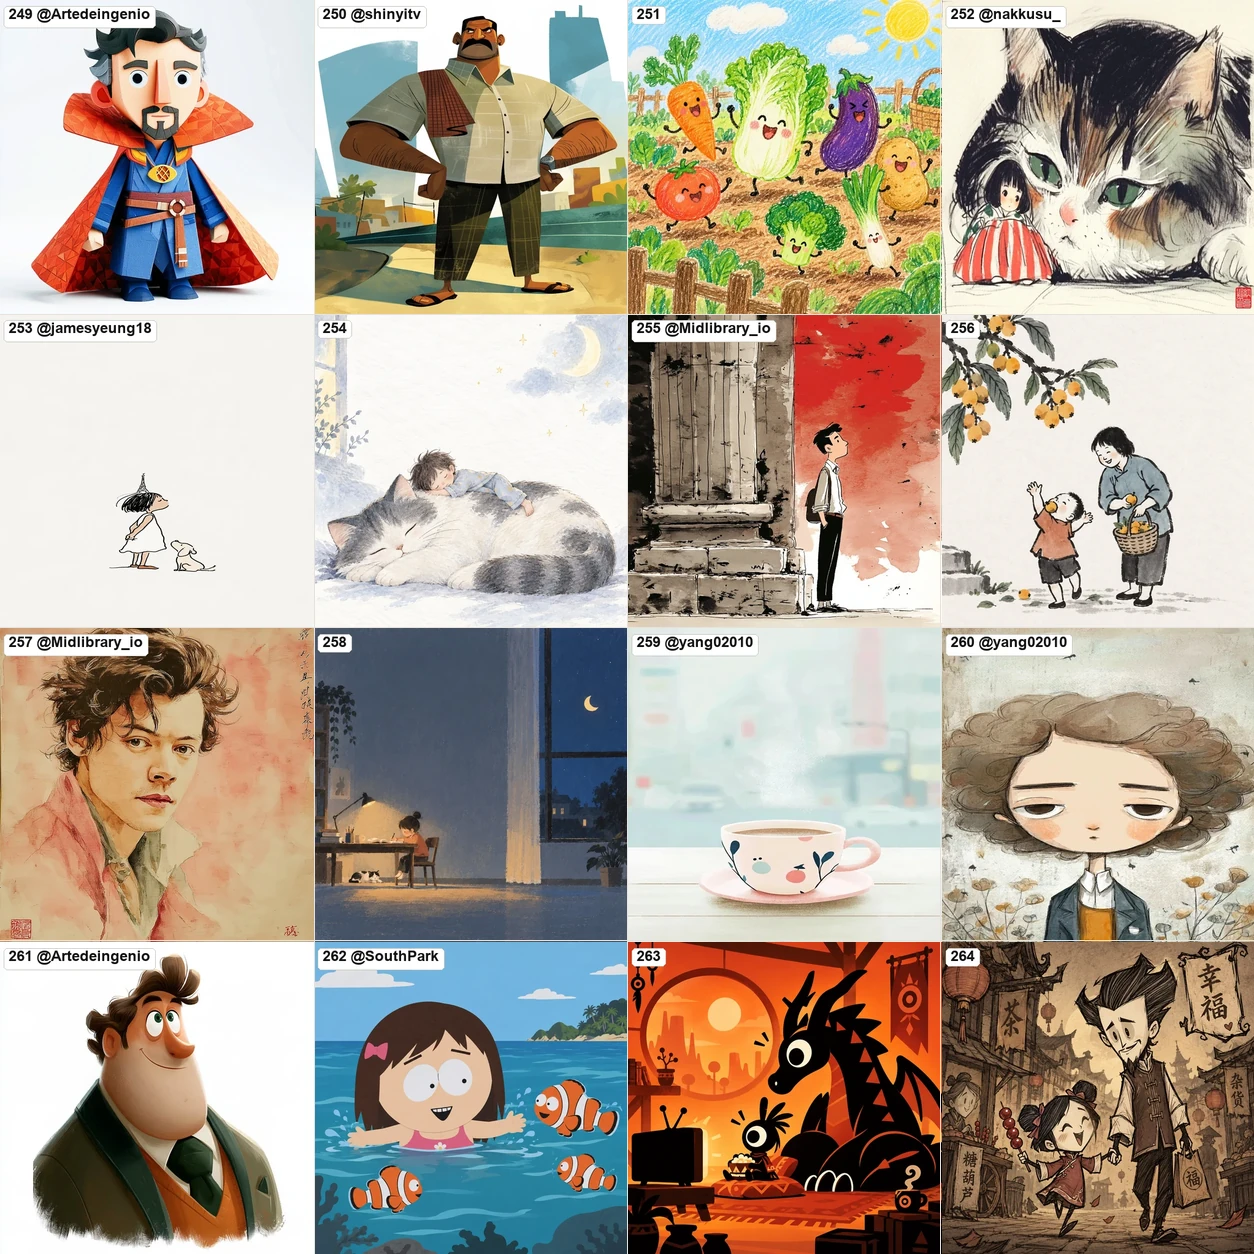
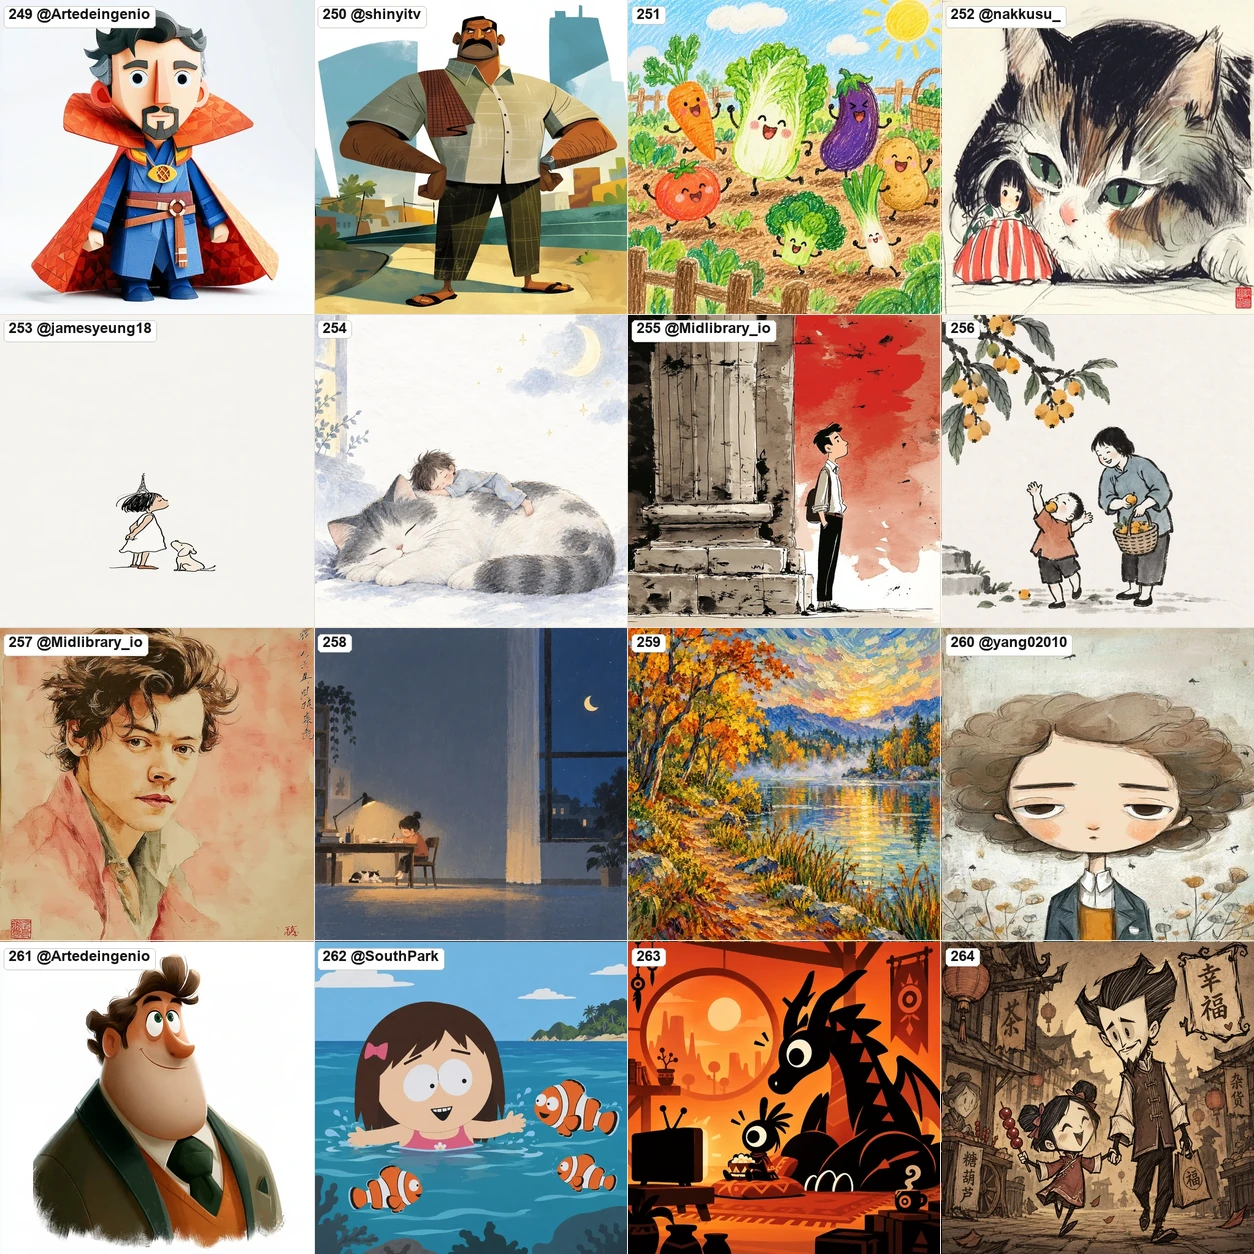
feat(styles): replace #259 with Van Gogh Impasto style and bump version (v1.2.18)

Changed region(s): [[0.4976, 0.4976, 0.7775, 0.7775]]

diff --git a/skills/handdraw-style-prompter/gallery/index.html b/skills/handdraw-style-prompter/gallery/index.html
@@ -2,7 +2,7 @@
 <html lang="zh-CN"><head><meta charset="utf-8"><meta name="viewport" content="width=device-width, initial-scale=1">
 <title>手绘风格编号画廊</title><style>
 body{margin:0;background:#f7f5f0;color:#24211e;font:16px/1.5 system-ui,"Microsoft YaHei",sans-serif} main{max-width:1440px;margin:auto;padding:18px 30px 30px} h1{margin:0} .lead{color:#665f57} input{width:min(520px,100%);box-sizing:border-box;padding:12px;border:1px solid #bdb5aa;border-radius:10px;font-size:16px} .update-status{display:flex;align-items:center;gap:8px;flex-wrap:wrap;margin:14px 0 18px;padding:9px 12px;border-left:3px solid #8b8177;background:#ece8e2;color:#514a43;font-size:14px} .update-status strong{color:#24211e} .update-status.is-update{border-color:#b74227;background:#fff0eb;color:#7f3022} .update-status.is-local-newer{border-color:#39726a;background:#eaf5f1;color:#25534d} .update-status button{border:1px solid currentColor;border-radius:6px;background:transparent;color:inherit;padding:4px 8px;font:inherit;cursor:pointer} .update-status button:hover{background:#ffffff80} .sheets{display:grid;grid-template-columns:repeat(auto-fit,minmax(290px,1fr));gap:18px;margin:24px 0 36px} figure{position:relative;margin:0;background:#fff;padding:10px;border-radius:12px;box-shadow:0 1px 5px #0002} .sheet-badge{position:absolute;top:16px;left:16px;background:rgba(36,33,30,0.85);color:#fff;padding:3px 8px;border-radius:6px;font-size:12px;font-weight:700;letter-spacing:0.5px;pointer-events:none;z-index:2;box-shadow:0 1px 3px rgba(0,0,0,0.3)} .sheet{display:block;width:100%;padding:0;border:0;background:transparent;cursor:zoom-in} .sheet:focus-visible{outline:3px solid #d67d4d;outline-offset:4px;border-radius:8px} img{display:block;width:100%;border-radius:7px} figcaption{padding:8px 2px 0;font-weight:700} .styles{display:grid;grid-template-columns:repeat(auto-fill,minmax(310px,1fr));gap:10px} .style{background:#fff;border-radius:10px;padding:12px;border-left:4px solid #d67d4d} .style b{font-variant-numeric:tabular-nums} .style small{display:block;color:#71685e;margin-top:2px} .style p{margin:7px 0 0;font-size:14px;color:#4b4540} dialog{width:min(94vw,1300px);max-width:none;padding:12px;border:0;border-radius:14px;background:#171513;color:#fff;box-shadow:0 20px 70px #0008} dialog::backdrop{background:#000b} dialog img{max-height:82vh;object-fit:contain} .close{float:right;border:0;border-radius:7px;padding:7px 10px;background:#fff;color:#24211e;cursor:pointer;font:inherit} .dialog-label{margin:8px 0 0;clear:both} .dialog-tip{margin:6px 0 0;font-size:12px;color:#a8a199;text-align:center} [hidden]{display:none!important}</style></head>
-<body><style>.site-nav{position:sticky;top:0;z-index:100;display:flex;align-items:center;gap:10px;margin:0;padding:12px 30px;border-bottom:1px solid #ded8cf;background:#fffdf9} .site-nav a{border:1px solid #9e9185;border-radius:8px;background:#fff;color:#403a34;padding:7px 13px;text-decoration:none;font-weight:800;line-height:1.2;transition:background .15s,color .15s,border-color .15s} .site-nav a:hover{border-color:#b74227;background:#fff0eb;color:#9f351f} .site-nav a[aria-current="page"]{border-color:#b74227;background:#b74227;color:#fff;box-shadow:0 1px 3px #b7422744} .nav-right{margin-left:auto;display:flex;align-items:center;gap:8px} .nav-ext{display:inline-flex;align-items:center;font-weight:700} .nav-btn{border:1px solid #9e9185;border-radius:8px;background:#fff;color:#403a34;padding:7px 13px;font:inherit;font-weight:700;line-height:1.2;cursor:pointer;transition:background .15s,color .15s,border-color .15s} .nav-btn:hover{border-color:#b74227;background:#fff0eb;color:#9f351f} .nav-btn:focus-visible,.site-nav a:focus-visible{outline:3px solid #d67d4d;outline-offset:3px} .prompt-examples{display:flex;align-items:center;flex-wrap:wrap;gap:10px 18px;margin:16px 0 20px} .prompt-examples h2{margin:0;color:#665f57;font-size:14px;font-weight:600} .prompt-example{display:flex;align-items:center;gap:8px;min-width:0} .prompt-label{color:#71685e;font-size:13px;white-space:nowrap} .prompt-value{padding:5px 8px;border:1px solid #d9d2c8;border-radius:6px;background:#fffdf9;color:#24211e;font:13px/1.4 ui-monospace,SFMono-Regular,Consolas,"Liberation Mono",monospace;white-space:nowrap} .prompt-notice{width:100%;box-sizing:border-box;margin:2px 0 0;padding:9px 13px;border:1px solid #ded8cf;border-left:4px solid #d67d4d;border-radius:8px;background:#fff;color:#514a43;font-size:13.5px;line-height:1.6} .prompt-notice a,.prompt-notice button{color:#b74227;font-weight:700;text-decoration:underline;text-underline-offset:2px;background:transparent;border:0;padding:0;font:inherit;cursor:pointer;display:inline} .prompt-notice a:hover,.prompt-notice button:hover{color:#9f351f} @media(max-width:760px){.site-nav{padding:10px 20px;flex-wrap:wrap;gap:8px} .nav-right{width:100%;justify-content:flex-start;gap:6px;margin-left:0} .site-nav a,.nav-btn{padding:6px 10px;font-size:13px} .prompt-examples{align-items:flex-start;flex-direction:column;gap:8px} .prompt-example{flex-wrap:wrap} .prompt-value{white-space:normal}}</style><nav class="site-nav" aria-label="画廊导航"><a href="index.html" aria-current="page" data-i18n="stylesNav">风格画廊</a><a href="layouts.html" data-i18n="layoutsNav">图型画廊</a><a href="colors.html" data-i18n="colorsNav">色彩画廊</a><a href="tutorials.html" data-i18n="tutorialsNav">实操教程</a><div class="nav-right"><a class="nav-ext" href="https://github.com/yang0/handraw-style" target="_blank" rel="noopener noreferrer" title="GitHub 仓库"><svg width="14" height="14" viewBox="0 0 16 16" fill="currentColor" style="vertical-align:-2px;margin-right:4px" aria-hidden="true"><path d="M8 0C3.58 0 0 3.58 0 8c0 3.54 2.29 6.53 5.47 7.59.4.07.55-.17.55-.38 0-.19-.01-.82-.01-1.49-2.01.37-2.53-.49-2.69-.94-.09-.23-.48-.94-.82-1.13-.28-.15-.68-.52-.01-.53.63-.01 1.08.58 1.23.82.72 1.21 1.87.87 2.33.66.07-.52.28-.87.51-1.07-1.78-.2-3.64-.89-3.64-3.95 0-.87.31-1.59.82-2.15-.08-.2-.36-1.02.08-2.12 0 0 .67-.21 2.2.82.64-.18 1.32-.27 2-.27.68 0 1.36.09 2 .27 1.53-1.04 2.2-.82 2.2-.82.44 1.1.16 1.92.08 2.12.51.56.82 1.27.82 2.15 0 3.07-1.87 3.75-3.65 3.95.29.25.54.73.54 1.48 0 1.07-.01 1.93-.01 2.2 0 .21.15.46.55.38A8.013 8.013 0 0016 8c0-4.42-3.58-8-8-8z"/></svg>GitHub</a><a class="nav-ext" href="https://x.com/yang02010" target="_blank" rel="noopener noreferrer" title="X (Twitter) @yang02010"><svg width="13" height="13" viewBox="0 0 24 24" fill="currentColor" style="vertical-align:-2px;margin-right:4px" aria-hidden="true"><path d="M18.244 2.25h3.308l-7.227 8.26 8.502 11.24H16.17l-5.214-6.817L4.99 21.75H1.68l7.73-8.835L1.254 2.25H8.08l4.713 6.231zm-1.161 17.52h1.833L7.084 4.126H5.117z"/></svg>X (@yang02010)</a><button class="nav-btn" id="wechat-btn" type="button" data-i18n="wechatBtn">💬 创作变现交流群</button><button class="nav-btn" id="lang-btn" type="button" aria-label="Switch Language">🌐 EN / 中</button></div></nav><main data-local-version="1.2.17" data-remote-version-url="https://raw.githubusercontent.com/yang0/handraw-style/master/skills/handdraw-style-prompter/references/version.json"><h1 data-i18n="title">手绘风格编号画廊</h1><section class="prompt-examples" aria-labelledby="prompt-examples-title"><h2 id="prompt-examples-title" data-i18n="promptTitle">提示词案例</h2><div class="prompt-example"><span class="prompt-label" data-i18n="ex1Label">1 · 出图</span><code class="prompt-value" data-i18n="ex1Code">风格：001，主题：吃冰淇淋的小姑娘</code></div><div class="prompt-example"><span class="prompt-label" data-i18n="ex2Label">2 · 切换图文模式</span><code class="prompt-value" data-i18n="ex2Code">切换为图文模式</code></div><div class="prompt-example"><span class="prompt-label" data-i18n="ex3Label">3 · 海报提示词</span><code class="prompt-value" data-i18n="ex3Code">请帮我出海报提示词， 主题：秋分</code></div><div class="prompt-notice" data-i18n-html="promptNotice">💡 强烈推荐大家关注我的<a href="https://x.com/yang02010" target="_blank" rel="noopener noreferrer">x账号</a>，或者<button type="button" class="open-wechat-modal">加入交流群</button>获取skill更新的最新信息。因为这不是一个发布就完事的skill，这段时间几乎每天都会有新的风格或者功能发布。</div></section><section id="update-status" class="update-status" role="status" aria-live="polite" hidden></section>
+<body><style>.site-nav{position:sticky;top:0;z-index:100;display:flex;align-items:center;gap:10px;margin:0;padding:12px 30px;border-bottom:1px solid #ded8cf;background:#fffdf9} .site-nav a{border:1px solid #9e9185;border-radius:8px;background:#fff;color:#403a34;padding:7px 13px;text-decoration:none;font-weight:800;line-height:1.2;transition:background .15s,color .15s,border-color .15s} .site-nav a:hover{border-color:#b74227;background:#fff0eb;color:#9f351f} .site-nav a[aria-current="page"]{border-color:#b74227;background:#b74227;color:#fff;box-shadow:0 1px 3px #b7422744} .nav-right{margin-left:auto;display:flex;align-items:center;gap:8px} .nav-ext{display:inline-flex;align-items:center;font-weight:700} .nav-btn{border:1px solid #9e9185;border-radius:8px;background:#fff;color:#403a34;padding:7px 13px;font:inherit;font-weight:700;line-height:1.2;cursor:pointer;transition:background .15s,color .15s,border-color .15s} .nav-btn:hover{border-color:#b74227;background:#fff0eb;color:#9f351f} .nav-btn:focus-visible,.site-nav a:focus-visible{outline:3px solid #d67d4d;outline-offset:3px} .prompt-examples{display:flex;align-items:center;flex-wrap:wrap;gap:10px 18px;margin:16px 0 20px} .prompt-examples h2{margin:0;color:#665f57;font-size:14px;font-weight:600} .prompt-example{display:flex;align-items:center;gap:8px;min-width:0} .prompt-label{color:#71685e;font-size:13px;white-space:nowrap} .prompt-value{padding:5px 8px;border:1px solid #d9d2c8;border-radius:6px;background:#fffdf9;color:#24211e;font:13px/1.4 ui-monospace,SFMono-Regular,Consolas,"Liberation Mono",monospace;white-space:nowrap} .prompt-notice{width:100%;box-sizing:border-box;margin:2px 0 0;padding:9px 13px;border:1px solid #ded8cf;border-left:4px solid #d67d4d;border-radius:8px;background:#fff;color:#514a43;font-size:13.5px;line-height:1.6} .prompt-notice a,.prompt-notice button{color:#b74227;font-weight:700;text-decoration:underline;text-underline-offset:2px;background:transparent;border:0;padding:0;font:inherit;cursor:pointer;display:inline} .prompt-notice a:hover,.prompt-notice button:hover{color:#9f351f} @media(max-width:760px){.site-nav{padding:10px 20px;flex-wrap:wrap;gap:8px} .nav-right{width:100%;justify-content:flex-start;gap:6px;margin-left:0} .site-nav a,.nav-btn{padding:6px 10px;font-size:13px} .prompt-examples{align-items:flex-start;flex-direction:column;gap:8px} .prompt-example{flex-wrap:wrap} .prompt-value{white-space:normal}}</style><nav class="site-nav" aria-label="画廊导航"><a href="index.html" aria-current="page" data-i18n="stylesNav">风格画廊</a><a href="layouts.html" data-i18n="layoutsNav">图型画廊</a><a href="colors.html" data-i18n="colorsNav">色彩画廊</a><a href="tutorials.html" data-i18n="tutorialsNav">实操教程</a><div class="nav-right"><a class="nav-ext" href="https://github.com/yang0/handraw-style" target="_blank" rel="noopener noreferrer" title="GitHub 仓库"><svg width="14" height="14" viewBox="0 0 16 16" fill="currentColor" style="vertical-align:-2px;margin-right:4px" aria-hidden="true"><path d="M8 0C3.58 0 0 3.58 0 8c0 3.54 2.29 6.53 5.47 7.59.4.07.55-.17.55-.38 0-.19-.01-.82-.01-1.49-2.01.37-2.53-.49-2.69-.94-.09-.23-.48-.94-.82-1.13-.28-.15-.68-.52-.01-.53.63-.01 1.08.58 1.23.82.72 1.21 1.87.87 2.33.66.07-.52.28-.87.51-1.07-1.78-.2-3.64-.89-3.64-3.95 0-.87.31-1.59.82-2.15-.08-.2-.36-1.02.08-2.12 0 0 .67-.21 2.2.82.64-.18 1.32-.27 2-.27.68 0 1.36.09 2 .27 1.53-1.04 2.2-.82 2.2-.82.44 1.1.16 1.92.08 2.12.51.56.82 1.27.82 2.15 0 3.07-1.87 3.75-3.65 3.95.29.25.54.73.54 1.48 0 1.07-.01 1.93-.01 2.2 0 .21.15.46.55.38A8.013 8.013 0 0016 8c0-4.42-3.58-8-8-8z"/></svg>GitHub</a><a class="nav-ext" href="https://x.com/yang02010" target="_blank" rel="noopener noreferrer" title="X (Twitter) @yang02010"><svg width="13" height="13" viewBox="0 0 24 24" fill="currentColor" style="vertical-align:-2px;margin-right:4px" aria-hidden="true"><path d="M18.244 2.25h3.308l-7.227 8.26 8.502 11.24H16.17l-5.214-6.817L4.99 21.75H1.68l7.73-8.835L1.254 2.25H8.08l4.713 6.231zm-1.161 17.52h1.833L7.084 4.126H5.117z"/></svg>X (@yang02010)</a><button class="nav-btn" id="wechat-btn" type="button" data-i18n="wechatBtn">💬 创作变现交流群</button><button class="nav-btn" id="lang-btn" type="button" aria-label="Switch Language">🌐 EN / 中</button></div></nav><main data-local-version="1.2.18" data-remote-version-url="https://raw.githubusercontent.com/yang0/handraw-style/master/skills/handdraw-style-prompter/references/version.json"><h1 data-i18n="title">手绘风格编号画廊</h1><section class="prompt-examples" aria-labelledby="prompt-examples-title"><h2 id="prompt-examples-title" data-i18n="promptTitle">提示词案例</h2><div class="prompt-example"><span class="prompt-label" data-i18n="ex1Label">1 · 出图</span><code class="prompt-value" data-i18n="ex1Code">风格：001，主题：吃冰淇淋的小姑娘</code></div><div class="prompt-example"><span class="prompt-label" data-i18n="ex2Label">2 · 切换图文模式</span><code class="prompt-value" data-i18n="ex2Code">切换为图文模式</code></div><div class="prompt-example"><span class="prompt-label" data-i18n="ex3Label">3 · 海报提示词</span><code class="prompt-value" data-i18n="ex3Code">请帮我出海报提示词， 主题：秋分</code></div><div class="prompt-notice" data-i18n-html="promptNotice">💡 强烈推荐大家关注我的<a href="https://x.com/yang02010" target="_blank" rel="noopener noreferrer">x账号</a>，或者<button type="button" class="open-wechat-modal">加入交流群</button>获取skill更新的最新信息。因为这不是一个发布就完事的skill，这段时间几乎每天都会有新的风格或者功能发布。</div></section><section id="update-status" class="update-status" role="status" aria-live="polite" hidden></section>
 <h2 data-i18n="sheetsTitle">风格拼图</h2><section class="sheets"><figure data-group="A"><span class="sheet-badge">#001–#016</span><button class="sheet" type="button" data-src="../../../images/A_001-016.webp" data-label="A · #001–#016" aria-label="放大查看 A #001 到 #016"><img src="../../../images/A_001-016.webp" alt="Styles 001 to 016"></button><figcaption>A · #001–#016 · <span class="zoom-text" data-i18n="clickEnlarge">点击放大</span></figcaption></figure>
 <figure data-group="A"><span class="sheet-badge">#017–#032</span><button class="sheet" type="button" data-src="../../../images/A_017-032.webp" data-label="A · #017–#032" aria-label="放大查看 A #017 到 #032"><img src="../../../images/A_017-032.webp" alt="Styles 017 to 032"></button><figcaption>A · #017–#032 · <span class="zoom-text" data-i18n="clickEnlarge">点击放大</span></figcaption></figure>
 <figure data-group="A"><span class="sheet-badge">#033–#035</span><button class="sheet" type="button" data-src="../../../images/A_033-035.webp" data-label="A · #033–#035" aria-label="放大查看 A #033 到 #035"><img src="../../../images/A_033-035.webp" alt="Styles 033 to 035"></button><figcaption>A · #033–#035 · <span class="zoom-text" data-i18n="clickEnlarge">点击放大</span></figcaption></figure>
@@ -280,7 +280,7 @@ body{margin:0;background:#f7f5f0;color:#24211e;font:16px/1.5 system-ui,"Microsof
 <article class="style" data-number="256" data-group="H" data-image-src="../../../images/individual/201-400/256.webp"><b>#256</b> <span>Feng Zikai Literati Brushwork &amp; Whimsical Ink Sketch</span><small>丰子恺</small><p>丰子恺文人漫画风格、大面积宣纸意境留白、朴实幽默与生活哲思趣意、简练写意的传统毛笔水墨勾勒、高度概括生动的人形动态、温润清雅的传统国画设色。</p></article>
 <article class="style" data-number="257" data-group="H" data-image-src="../../../images/individual/201-400/257.webp"><b>#257</b> <span>Romantic Pink Watercolor Sumi-e Wash</span><small>midlibrary</small><p>浪漫粉调新东风水墨晕染风、柔和半透明水粉水彩层次、写意书法墨色点缀、轻盈梦幻的落樱花瓣与东方抒情写意。</p></article>
 <article class="style" data-number="258" data-group="H" data-image-src="../../../images/individual/201-400/258.webp"><b>#258</b> <span>Minimalist Atmospheric Storybook &amp; Vast Scale Contrast</span><small>yang02010</small><p>现代极简绘本插画风、大面积同色系连续环境主导画面、背景极度简化并仅保留少量必要景物、人物微缩与宏大环境强烈尺度反差、安静松弛与诗意孤独氛围、非对称大面积负空间留白、主体轮廓简练概括、手绘笔触与纸张颗粒/蜡笔丙烯干刷纹理。</p></article>
-<article class="style" data-number="259" data-group="H" data-image-src="../../../images/individual/201-400/259.webp"><b>#259</b> <span>Retro Gouache Narrative Character Illustration</span><small>牙仔⇌</small><p>复古厚涂水粉叙事插画风、颗粒磨砂纸张肌理、朴实质感的人物造型与暖调复古色相、充满时代温度的绘本生活场景。</p></article>
+<article class="style" data-number="259" data-group="H" data-image-src="../../../images/individual/201-400/259.webp"><b>#259</b> <span>Van Gogh Expressive Impasto Oil Painting</span><small>梵高</small><p>后印象派厚涂油画质感、短促而强烈的雕塑感厚堆笔触、充满律动感与生命力的线条走势、纯正浓郁的色彩并置与情感张力；只采用梵高标志性的油画画风与笔触肌理，画面元素的选择必须完全切合指定主题，除非用户明确指定，杜绝默认套用星空漩涡、柏树、向日葵、麦田等梵高惯用符号。</p></article>
 <article class="style" data-number="260" data-group="H" data-image-src="../../../images/individual/201-400/260.webp"><b>#260</b> <span>Chic Stylized Anime Comic Art</span><small>牙仔⇌</small><p>潮流风格化日系动漫插画风、利落流畅的手绘线稿、鲜明平涂色块与网点纸微纹理、极具辨识度的时尚青年角色设计。</p></article>
 <article class="style" data-number="261" data-group="H" data-image-src="../../../images/individual/201-400/261.webp"><b>#261</b> <span>Charming 2D Animation Feature Character Visdev</span><small>OscarAI</small><p>温润细腻的2D动画长片角色概念设计风、大眼与黑框眼镜的生动表情、利落剪影造型与微质感笔触边缘、纯白留白背景、质朴温和的大地与森林色系、极具亲和力与故事感的动画视觉开发(visdev)艺术。</p></article>
 <article class="style" data-number="262" data-group="H" data-image-src="../../../images/individual/201-400/262.webp"><b>#262</b> <span>South Park Animation Style</span><small>South Park</small><p>扁平几何色块、粗黑轮廓线、简化圆润人物形体、夸张圆眼与极简五官、鲜明高饱和蓝色与海洋色调、电视动画式平涂质感。</p></article>

diff --git a/skills/handdraw-style-prompter/scripts/resolve_reference.py b/skills/handdraw-style-prompter/scripts/resolve_reference.py
@@ -64,7 +64,7 @@ def resolve(model: str, style: str, policy: dict | None = None) -> dict:
     traits_activation = entry.get("traits_activation", "unknown")
     if name_activation not in ALLOWED or traits_activation not in ALLOWED:
         raise ValueError("Invalid name_activation or traits_activation")
-    traits = style_record.get("traits", "") if number == "240" else positive_traits(style_record.get("traits", ""))
+    traits = style_record.get("traits", "") if number in ("240", "259") else positive_traits(style_record.get("traits", ""))
     if name_activation == "strong":
         activation_source = "name+style"
         use_reference_image = False

diff --git a/styles_200_reorganized.md b/styles_200_reorganized.md
@@ -514,7 +514,7 @@
 | 256 · 丰子恺 | Feng Zikai Literati Brushwork & Whimsical Ink Sketch | 丰子恺文人漫画风格、大面积宣纸意境留白、朴实幽默与生活哲思趣意、简练写意的传统毛笔水墨勾勒、高度概括生动的人形动态、温润清雅的传统国画设色。 |
 | 257 · midlibrary | Romantic Pink Watercolor Sumi-e Wash | 浪漫粉调新东风水墨晕染风、柔和半透明水粉水彩层次、写意书法墨色点缀、轻盈梦幻的落樱花瓣与东方抒情写意。 |
 | 258 · yang02010 | Minimalist Atmospheric Storybook & Vast Scale Contrast | 现代极简绘本插画风、大面积同色系连续环境主导画面、背景极度简化并仅保留少量必要景物、人物微缩与宏大环境强烈尺度反差、安静松弛与诗意孤独氛围、非对称大面积负空间留白、主体轮廓简练概括、手绘笔触与纸张颗粒/蜡笔丙烯干刷纹理。 |
-| 259 · 牙仔⇌ | Retro Gouache Narrative Character Illustration | 复古厚涂水粉叙事插画风、颗粒磨砂纸张肌理、朴实质感的人物造型与暖调复古色相、充满时代温度的绘本生活场景。 |
+| 259 · 梵高 | Van Gogh Expressive Impasto Oil Painting | 后印象派厚涂油画质感、短促而强烈的雕塑感厚堆笔触、充满律动感与生命力的线条走势、纯正浓郁的色彩并置与情感张力；只采用梵高标志性的油画画风与笔触肌理，画面元素的选择必须完全切合指定主题，除非用户明确指定，杜绝默认套用星空漩涡、柏树、向日葵、麦田等梵高惯用符号。 |
 | 260 · 牙仔⇌ | Chic Stylized Anime Comic Art | 潮流风格化日系动漫插画风、利落流畅的手绘线稿、鲜明平涂色块与网点纸微纹理、极具辨识度的时尚青年角色设计。 |
 | 261 · OscarAI | Charming 2D Animation Feature Character Visdev | 温润细腻的2D动画长片角色概念设计风、大眼与黑框眼镜的生动表情、利落剪影造型与微质感笔触边缘、纯白留白背景、质朴温和的大地与森林色系、极具亲和力与故事感的动画视觉开发(visdev)艺术。 |
 
